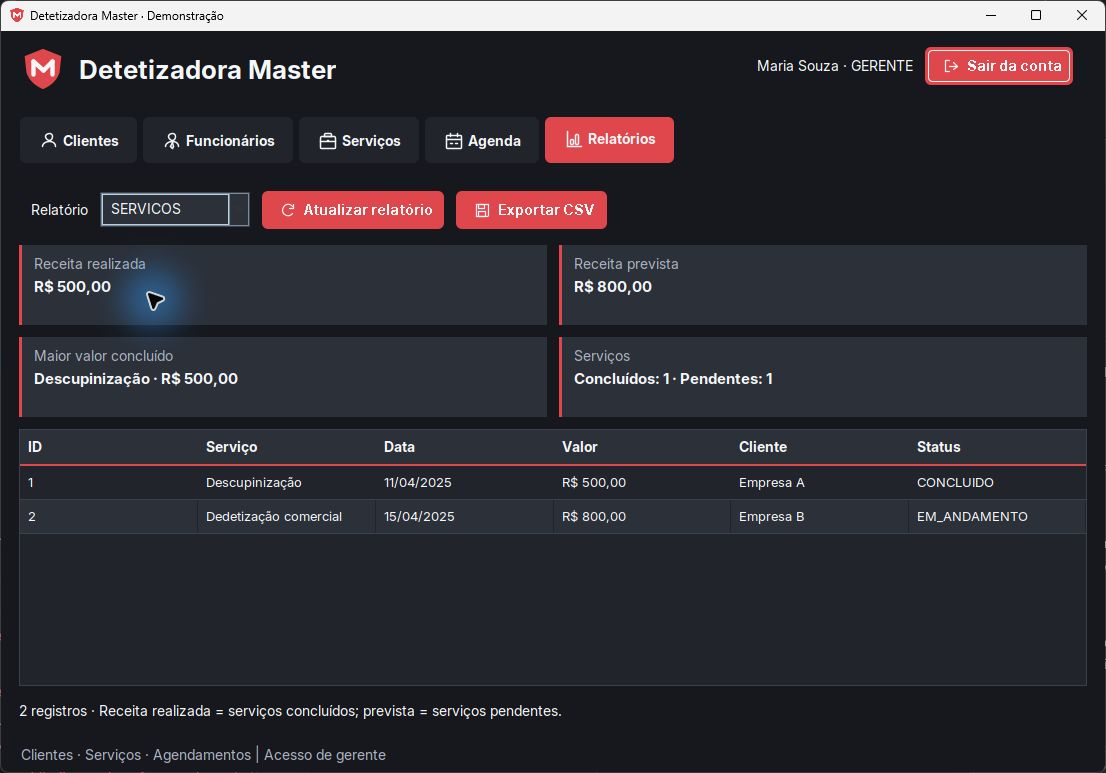
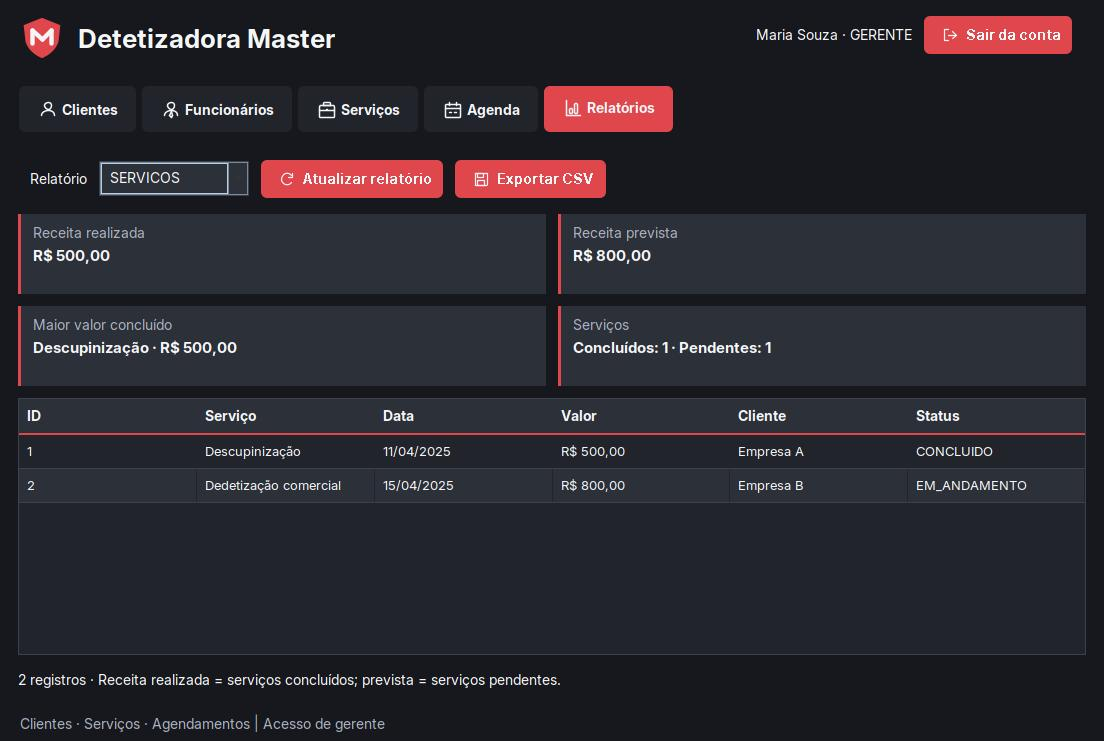
fix: alteração no readme

Changed region(s): [[0.0, 0.0, 1.0, 0.6829], [0.0, 0.8691, 0.9855, 0.9312], [0.0, 0.9622, 1.0, 1.0]]

diff --git a/README.md b/README.md
@@ -38,7 +38,7 @@ A interface usa tema escuro com destaque vermelho, fonte Inter, ícones vetoriai
 
 Receita realizada considera serviços concluídos; receita prevista considera serviços agendados ou em andamento. O maior valor concluído representa o valor do serviço, sem cálculo de lucro. O relatório da agenda mostra atendimentos pendentes entre hoje e os próximos três meses. O CSV usa separador `;`, UTF-8 com BOM e proteção contra interpretação de textos como fórmulas.
 
-As imagens usam somente dados demonstrativos, em um banco separado.
+As imagens usam somente dados demonstrativos.
 
 ## Permissões e regras
 
